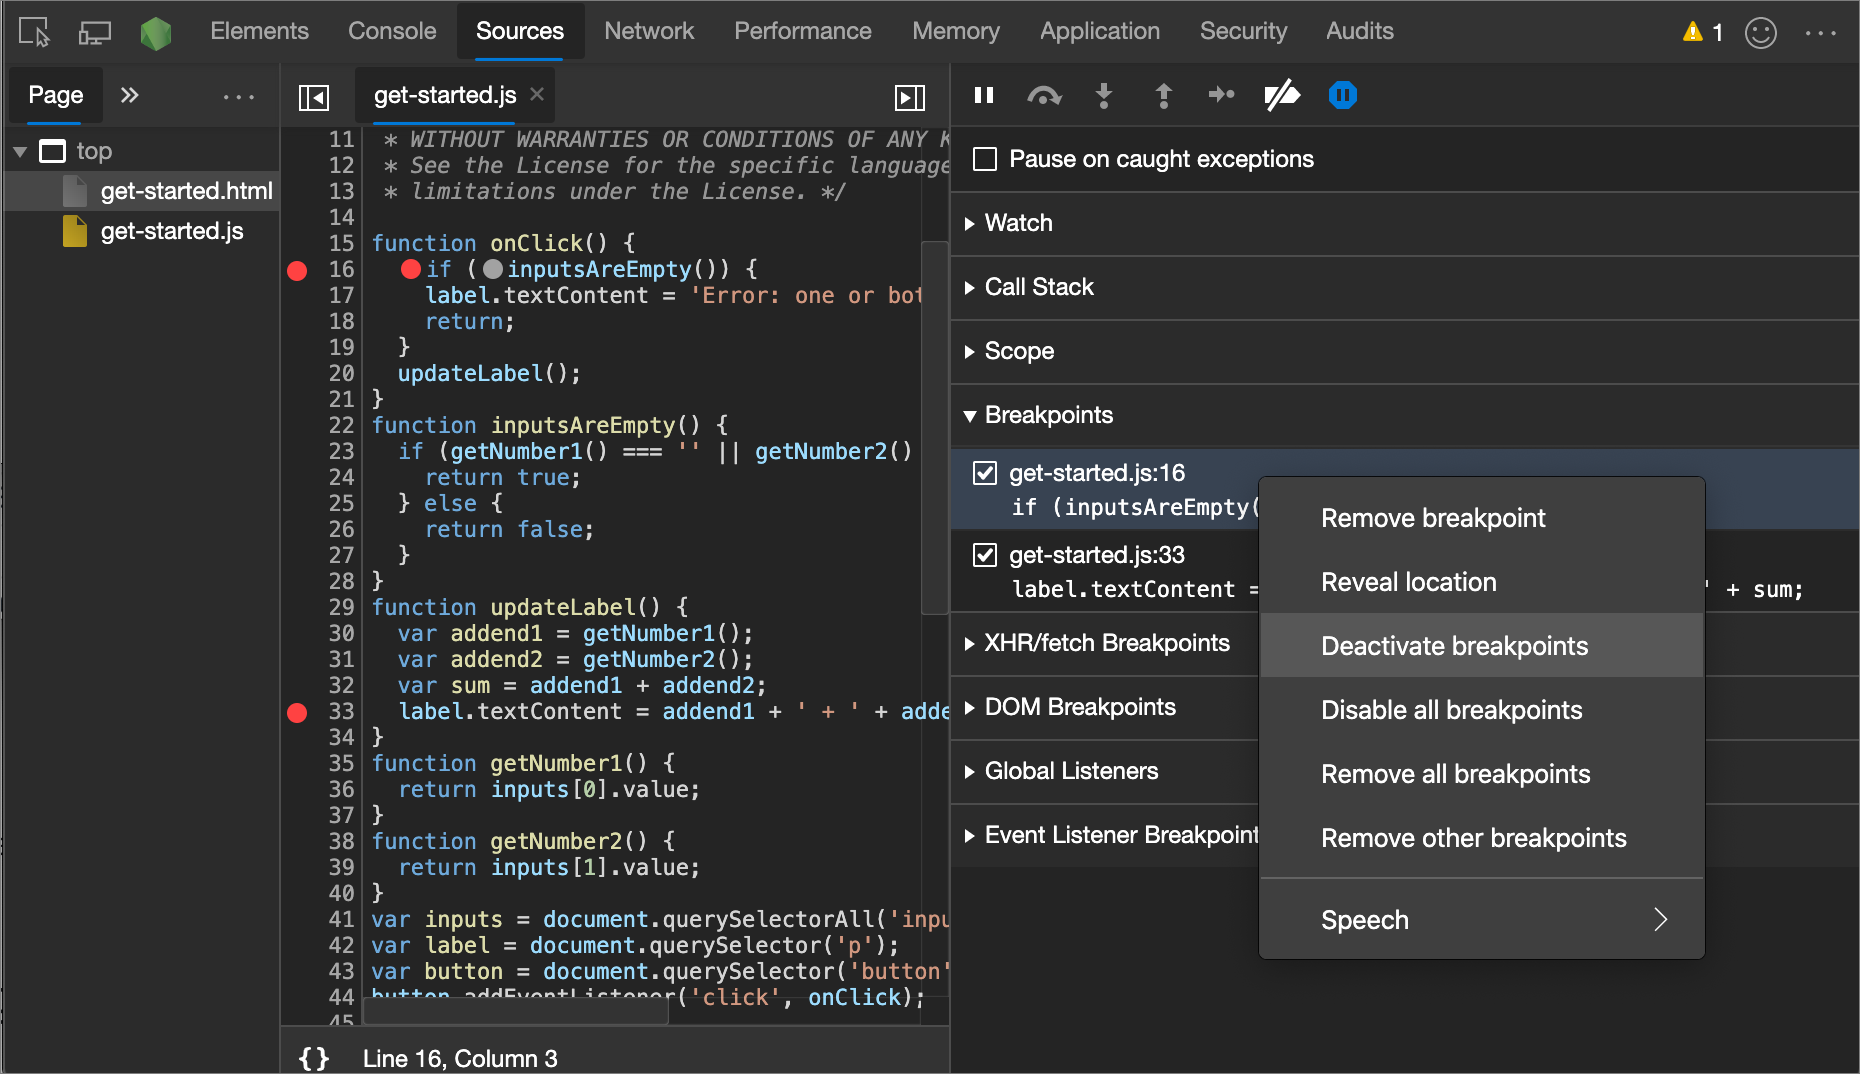
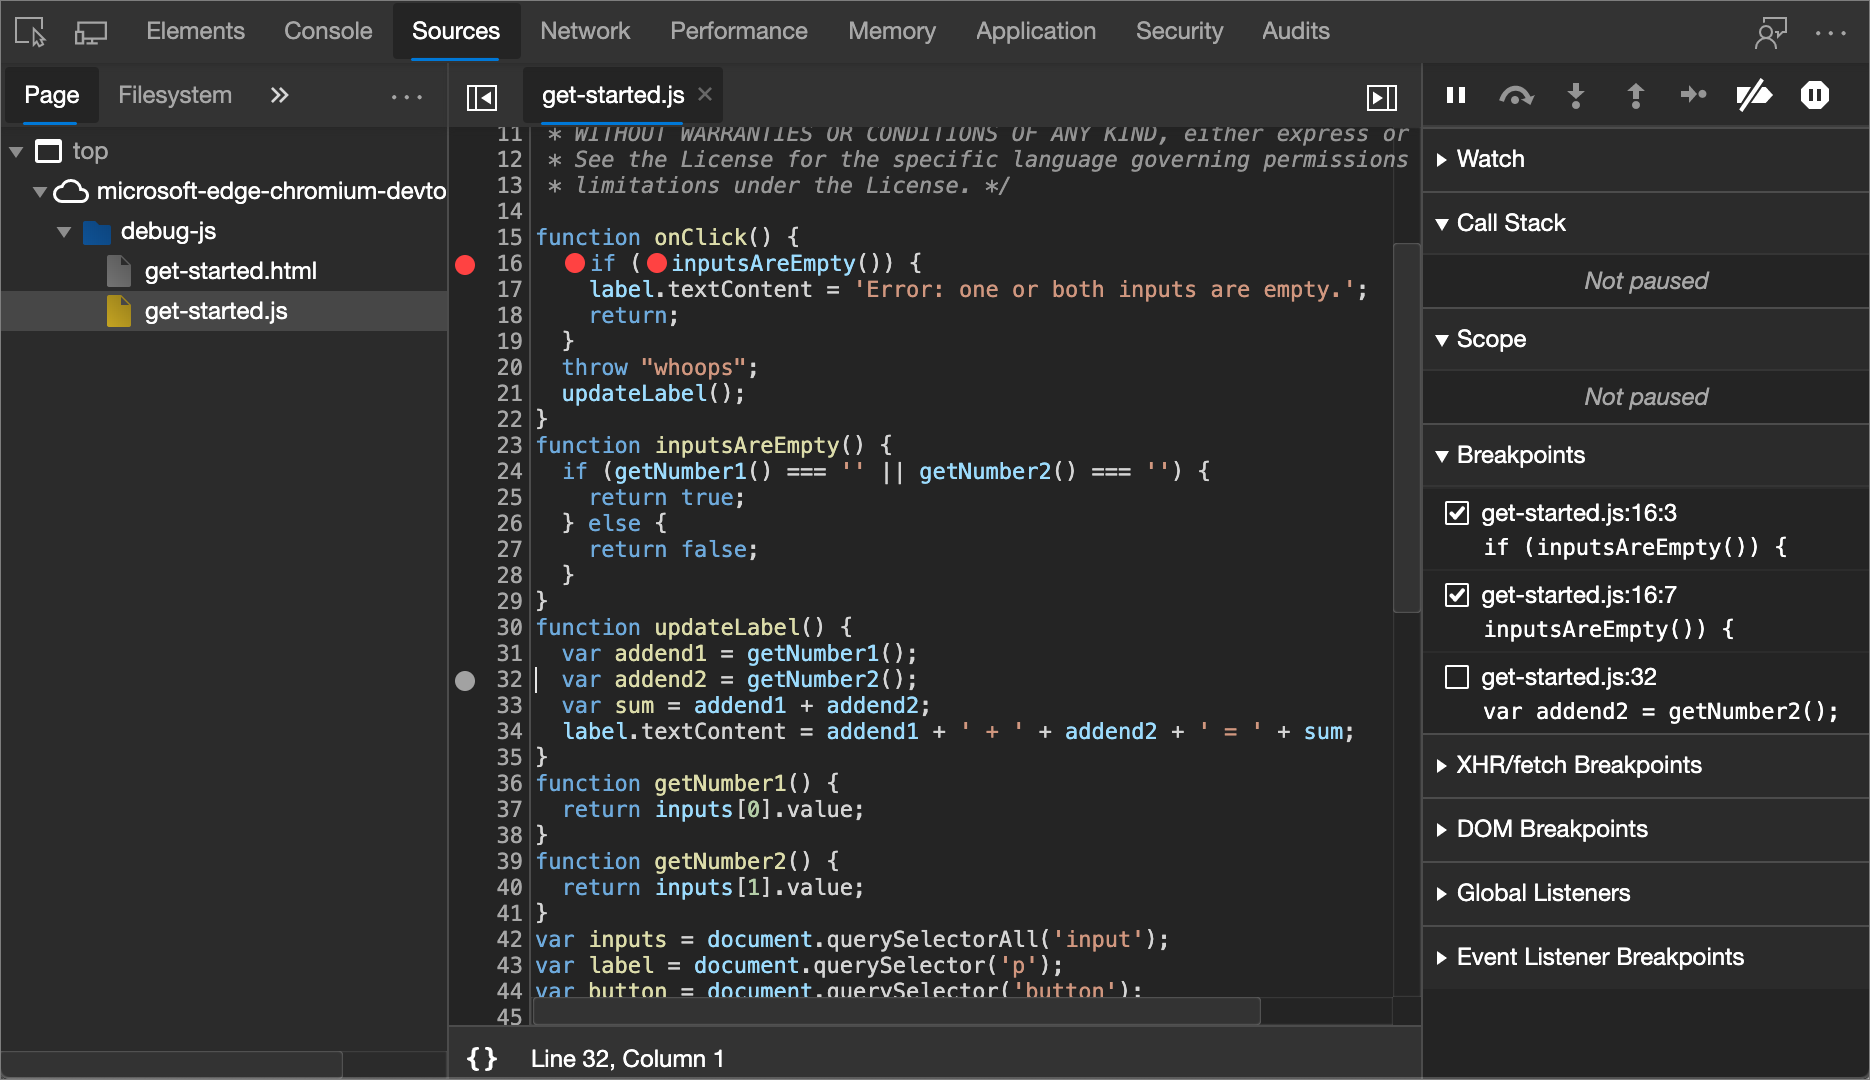
commit from WebFundamentals

diff --git a/microsoft-edge/devtools-guide-chromium/javascript/breakpoints.md b/microsoft-edge/devtools-guide-chromium/javascript/breakpoints.md
@@ -2,7 +2,7 @@
 title: How To Pause Your Code With Breakpoints In Microsoft Edge DevTools
 author: MSEdgeTeam
 ms.author: msedgedevrel
-ms.date: 01/07/2020
+ms.date: 01/20/2020
 ms.topic: article
 ms.prod: microsoft-edge
 keywords: microsoft edge, web development, f12 tools, devtools
@@ -85,7 +85,7 @@ To set a conditional line-of-code breakpoint:
 1.  Press `Enter` to activate the breakpoint.  An icon next to the line number column.  
 
 > ##### Figure 2  
-> A conditional line-of-code breakpoint set on line `33`  
+> A conditional line-of-code breakpoint set on line 34  
 > ![A conditional line-of-code breakpoint][ImageConditionalLocBreakpoint]  
 
 ### Manage line-of-code breakpoints   
@@ -223,7 +223,7 @@ Ensuring the target function is in scope is tricky if you are running the `debug
 [ImagePauseOnExceptionsIcon]: images/pause-on-exceptions-icon.msft.png  
 
 [ImageLocBreakpoint]: images/sources-page-js-breakpoint-30.msft.png "Figure 1: A line-of-code breakpoint"  
-[ImageConditionalLocBreakpoint]: images/sources-page-js-breakpoint-33.msft.png "Figure 2: A conditional line-of-code breakpoint"  
+[ImageConditionalLocBreakpoint]: images/sources-page-js-conditional-breakpoint.msft.png "Figure 2: A conditional line-of-code breakpoint"  
 [ImageBreakpointsPanel]: images/sources-page-js-breakpoints-16-33.msft.png "Figure 3: The Breakpoints panel"  
 [ImageDeactivatedBreakpoints]: images/sources-page-js-breakpoints-deactivate-breakpoints.msft.png "Figure 4: Deactivated breakpoints in the Breakpoints pane"  
 [ImageDomChangeBreakpoint]: images/elements-break-on-subtree-modifications.msft.png "Figure 5: The context menu for creating a DOM change breakpoint"  
